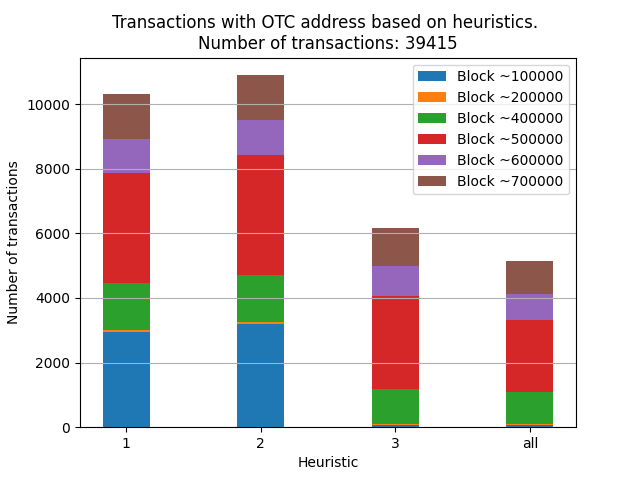
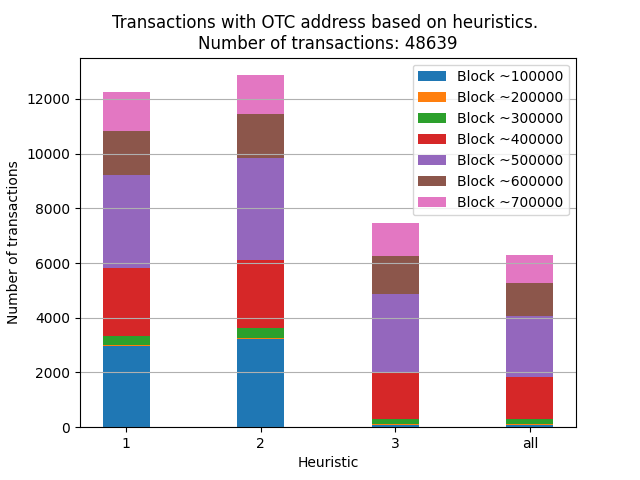
strict input linking

diff --git a/aggregate_inputs_strict.py b/aggregate_inputs_strict.py
@@ -1,0 +1,98 @@
+import networkx as nx
+import pymongo
+from tqdm import tqdm
+import os
+from dotenv import load_dotenv
+import matplotlib.pyplot as plt
+from random import randint
+from collections import OrderedDict
+
+
+'''
+Combines inputs
+
+The common-input-ownership heuristic (also called the multi-input heuristic
+, Nakamoto/Meiklejohn heuristic or co-spending heuristic) is a heuristic or
+ assumption that all inputs to a transaction are owned by the same entity.
+'''
+
+load_dotenv('.env')
+
+connectURI = os.environ["connectURI"]
+client = pymongo.MongoClient(connectURI)
+db = client["master"]
+transaction_collection = db['block-transactions']
+aggregated_outputs_collection = db["aggregated-transactions"]
+
+def get_inputs(inputs):
+    addresses = []
+    for inp in inputs:
+        try:
+            addresses.append(inp["address"][0])
+        except IndexError as e:
+            continue
+    return addresses
+
+for height in range(100000, 700001, 100000):
+    transactions = transaction_collection.find({ "height" : {"$gt": height-50000, "$lt": height+50000}})
+    collection = db[f'linked-inputs-{height}-strict']
+
+    for transaction in tqdm(transactions):
+        if len(transaction["outputs"]) != 1:
+            continue
+        inputs = get_inputs(transaction["inputs"])
+        if inputs:
+            inputs = list(
+                OrderedDict.fromkeys(inputs))
+            exists = False
+            for address in inputs:
+                matching = collection.find_one({"aggregated_inputs": address})
+                if matching:
+                    exists = True
+                    collection.update_one({
+                                '_id': matching['_id']
+                            }, {
+                                '$push': {
+                                    'tx_hashes': transaction["tx_hash"]
+                                }
+                            }, upsert=False)
+                    old_list = matching["aggregated_inputs_strict"]
+                    if set(old_list) != set(matching):
+                        old_list.extend(
+                            address for address in inputs if address not in old_list)
+                        try:
+                            collection.update_one({
+                                '_id': matching['_id']
+                            }, {
+                                '$set': {
+                                    'aggregated_inputs_strict': old_list
+                                }
+                            }, upsert=False)
+                        except pymongo.errors.WriteError as e:
+                            print("writeError, update")
+                            print(matching)
+                    break
+            if not exists:
+                try:
+                    collection.insert_one(
+                        {"_id": inputs[0], "aggregated_inputs_strict": inputs, "tx_hashes": [transaction["tx_hash"]]})
+                    collection.create_index("aggregated_inputs_strict")
+                except pymongo.errors.WriteError as e:
+                    print("writeError, insert")
+                    print(transaction["_id"])
+    for transaction in tqdm(transactions):
+        if len(transaction["outputs"]) == 1:
+            continue
+        inputs = get_inputs(transaction["inputs"])
+        if inputs:
+            for address in inputs:
+                matching = collection.find_one({"aggregated_inputs": address})
+                if not matching:
+                    try:
+                        collection.insert_one(
+                            {"_id": inputs[0], "aggregated_inputs_strict": inputs[0], "tx_hashes": [transaction["tx_hash"]]})
+                        collection.create_index("aggregated_inputs_strict")
+                    except pymongo.errors.WriteError as e:
+                        print("writeError, insert")
+                        print(transaction["_id"])
+

diff --git a/progress_graph.py b/progress_graph.py
@@ -1,0 +1,41 @@
+''' WIP '''
+
+import os
+from time import sleep
+import pymongo
+from dotenv import load_dotenv
+from graphsense.api import addresses_api, blocks_api, bulk_api, entities_api, txs_api
+from tqdm import tqdm
+from time import time
+import matplotlib.pyplot as plt
+import collections
+
+load_dotenv('.env')
+
+connectURI = os.environ["connectURI"]
+client = pymongo.MongoClient(connectURI)
+db = client["master"]
+block_transactions_collection = db["block-transactions"]
+aggregated_transactions_collection = db["aggregated-transactions_new"]
+
+transactions = [0,0,0,0,0,0,0]
+aggregated = [0,0,0,0,0,0,0]
+i = 0
+while i < 7:
+    height = (i+1)*100000
+    transactions[i] = block_transactions_collection.count_documents({"height": {"$gt": height - 50000, "$lt": height+50000}})
+    aggregated[i] = aggregated_transactions_collection.count_documents({"height": {"$gt": height - 50000, "$lt": height+50000}})
+    i+=1
+labels = ["100k", "200k", "300k", "400k", "500k", "600k", "700k"]
+
+
+labels = ["100k", "200k", "300k", "400k", "500k", "600k", "700k"]
+fig, ax = plt.subplots()
+width = 0.35
+ax.bar(labels, transactions, width, color="grey")
+ax.bar(labels, aggregated, width, color="green")
+ax.set_ylabel('Number of transactions')
+ax.set_xlabel('Block')
+plt.legend()
+plt.grid(axis = 'y')
+plt.show()
